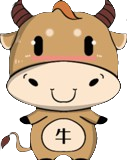
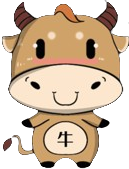
Character Selection screen

diff --git a/src/myculturalstory/ZodiacSketch.java b/src/myculturalstory/ZodiacSketch.java
@@ -14,10 +14,11 @@ import processing.core.PImage;
 
 public class ZodiacSketch extends PApplet {
     // initialize
-    private PImage backgroundImg;
+    private PImage gameImg;
+    private PImage selectionImg;
     private int gameState = 0;
     private ZodiacAnimal player;
-
+    
     public static void main(String[] args) {
         PApplet.main("myculturalstory.ZodiacSketch");
     }
@@ -29,9 +30,10 @@ public class ZodiacSketch extends PApplet {
     
     // set up background and player
     public void setup() {
-        backgroundImg = loadImage("images/river_1.png");
+        gameImg = loadImage("images/river_1.png");
+        selectionImg = loadImage("images/characterSelection.png");
         // default player as rat
-        player = new Rat(this, width / 2 - 50, height / 2);
+        player = new Rat(this, width / 2 - 86, height / 2 + 54);
     }
     
     // draw in frames
@@ -45,15 +47,18 @@ public class ZodiacSketch extends PApplet {
     
     // start screen / frame
     private void drawStartScreen() {
-        background(200);
+        // background 
+        if (selectionImg != null) {
+            image(selectionImg, 0, 0, width, height);
+        }
         fill(0);
-        textSize(26);
-        text("Choose your zodiac Animal", width / 2 - 180, 80);
+        textSize(40);
+        text("Choose your zodiac Animal", width / 2 - 215, 70);
         
-        textSize(14);
+        textSize(20);
         text("1-Rat  2-Ox  3-Tiger  4-Rabbit  5-Dragon  6-Snake\n" +
              "7-Horse  8-Sheep  9-Monkey  Q-Rooster  W-Dog  E-Pig\n" +
-             "Press Enter to confirm", 200, 140);
+             "Press Enter to confirm", 290, 120);
         
         if (player != null) {
             player.draw();
@@ -63,8 +68,8 @@ public class ZodiacSketch extends PApplet {
     // game screen / frame
     private void drawGameScreen() {
         // background 
-        if (backgroundImg != null) {
-            image(backgroundImg, 0, 0, width, height);
+        if (gameImg != null) {
+            image(gameImg, 0, 0, width, height);
         }
         
         // draw player 
@@ -82,18 +87,18 @@ public class ZodiacSketch extends PApplet {
     public void keyPressed() {
         // player selection
         if (gameState == 0) {
-            if (key == '1') player = new Rat(this, width / 2 - 50, height / 2);
-            else if (key == '2') player = new Ox(this, width / 2 - 50, height / 2);
-            else if (key == '3') player = new Tiger(this, width / 2 - 50, height / 2);
-            else if (key == '4') player = new Rabbit(this, width / 2 - 50, height / 2);
-            else if (key == '5') player = new Dragon(this, width / 2 - 50, height / 2);
-            else if (key == '6') player = new Snake(this, width / 2 - 50, height / 2);
-            else if (key == '7') player = new Horse(this, width / 2 - 50, height / 2);
-            else if (key == '8') player = new Sheep(this, width / 2 - 50, height / 2);
-            else if (key == '9') player = new Monkey(this, width / 2 - 50, height / 2);
-            else if (key == 'q' || key == 'Q') player = new Rooster(this, width / 2 - 50, height / 2);
-            else if (key == 'w' || key == 'W') player = new Dog(this, width / 2 - 50, height / 2);
-            else if (key == 'e' || key == 'E') player = new Pig(this, width / 2 - 50, height / 2);    
+            if (key == '1') player = new Rat(this, width / 2 - 86, height / 2 + 54);
+            else if (key == '2') player = new Ox(this, width / 2 - 59, height / 2 + 63);
+            else if (key == '3') player = new Tiger(this, width / 2 - 60, height / 2 + 71);
+            else if (key == '4') player = new Rabbit(this, width / 2 - 69, height / 2 + 53);
+            else if (key == '5') player = new Dragon(this, width / 2 - 52, height / 2 + 50);
+            else if (key == '6') player = new Snake(this, width / 2 - 53, height / 2 + 73);
+            else if (key == '7') player = new Horse(this, width / 2 - 53, height / 2 + 52);
+            else if (key == '8') player = new Sheep(this, width / 2 - 58, height / 2 + 43);
+            else if (key == '9') player = new Monkey(this, width / 2 - 75, height / 2 + 75);
+            else if (key == 'q' || key == 'Q') player = new Rooster(this, width / 2 - 47, height / 2 + 53);
+            else if (key == 'w' || key == 'W') player = new Dog(this, width / 2 - 76, height / 2 + 73);
+            else if (key == 'e' || key == 'E') player = new Pig(this, width / 2 - 61, height / 2 + 59);    
             
             // change frame
             if (keyCode == ENTER && player != null) {
